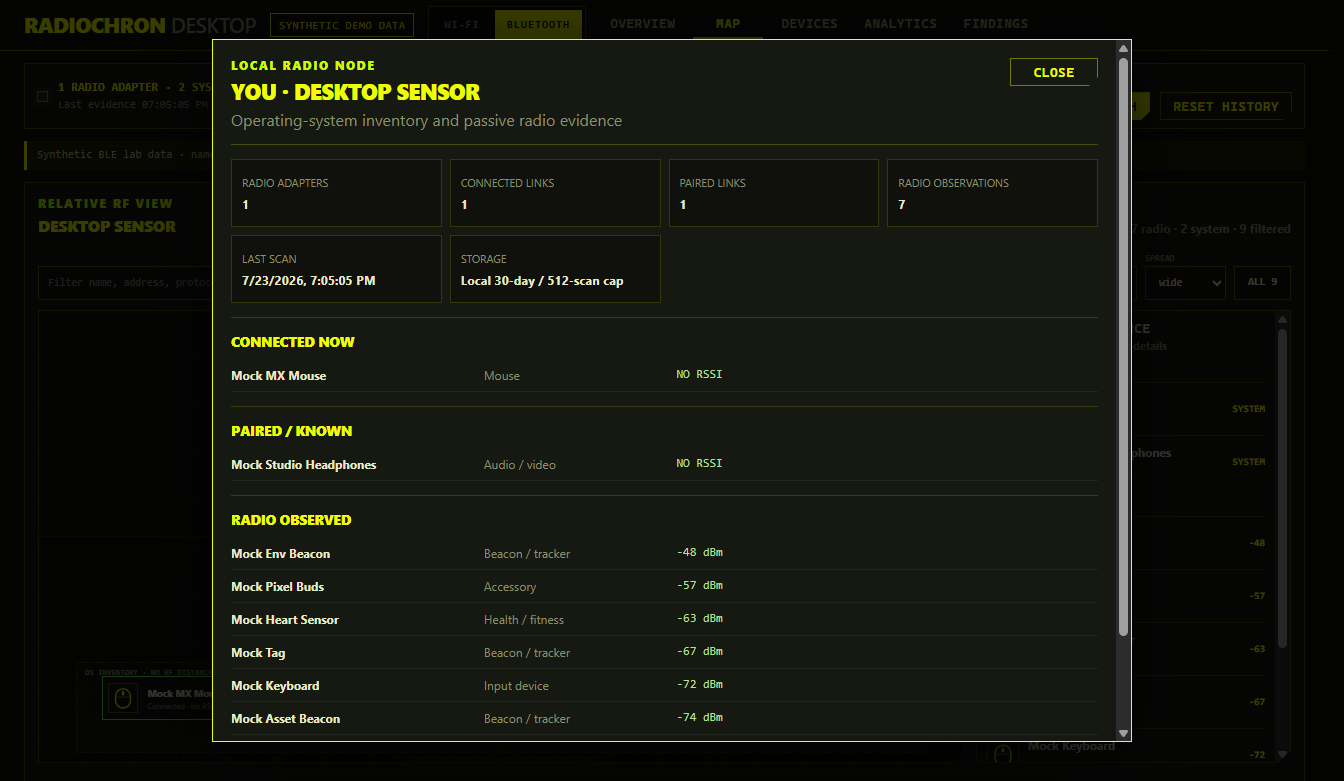
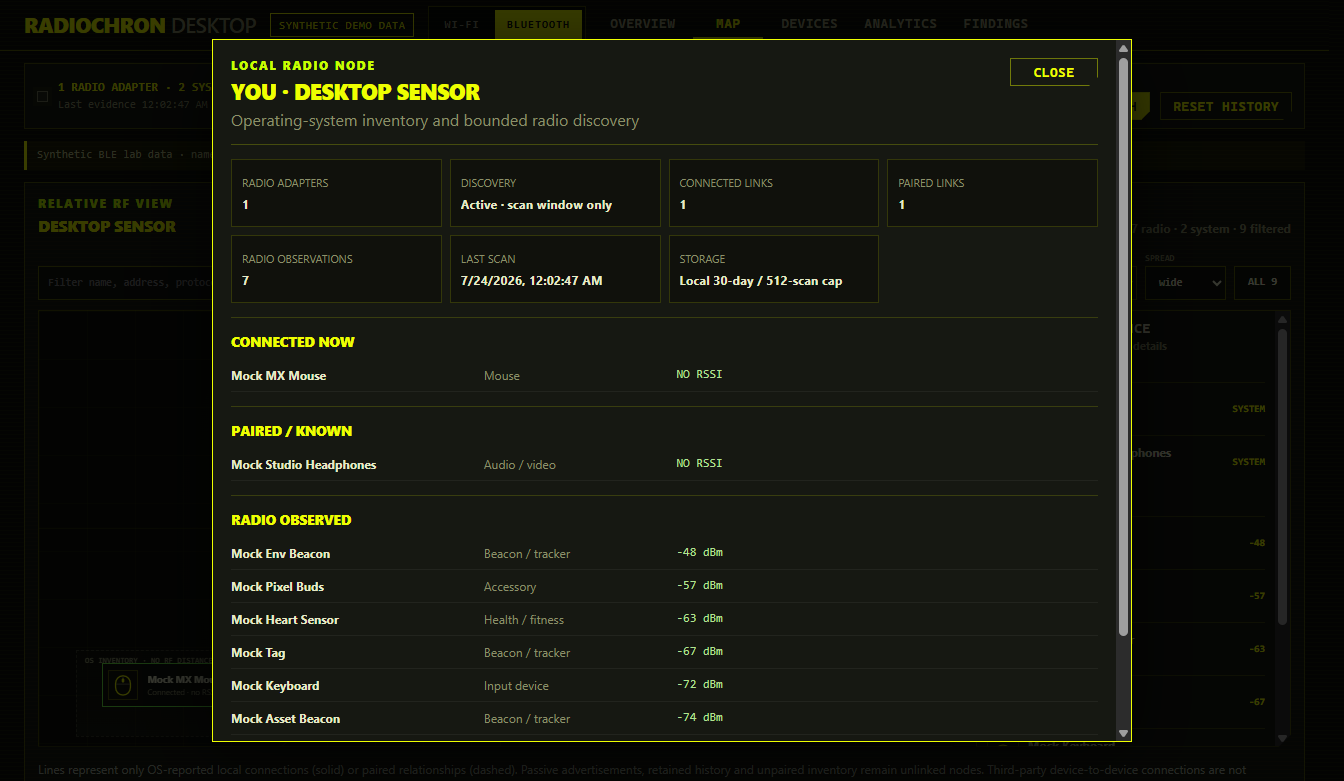
docs: prepare Desktop beta 3 site

diff --git a/public/electron.html b/public/electron.html
@@ -64,8 +64,8 @@
       <figure><img src="/screenshots/radiochron-desktop-analytics.png" alt="RadioChron Desktop Wi-Fi evidence timeline, pulse watch and signal matrices"><figcaption>Wi-Fi Analytics — timeline, transition pulse watch and AP matrices</figcaption></figure>
       <figure><img src="/screenshots/radiochron-desktop-wifi-presence.png" alt="RadioChron Desktop Wi-Fi sampled presence patterns"><figcaption>Wi-Fi presence — filterable 1/7/30-day stability and recurrence evidence</figcaption></figure>
       <figure><img src="/screenshots/radiochron-desktop-network.png" alt="RadioChron Desktop network view with documentation-only addresses"><figcaption>Network — controlled local diagnostics and scan identity</figcaption></figure>
-      <figure><img src="/screenshots/radiochron-desktop-bluetooth-map.png" alt="RadioChron Desktop Bluetooth RF map with synthetic devices"><figcaption>Bluetooth RF map — shared pan, zoom, fullscreen, filters and typed links</figcaption></figure>
-      <figure><img src="/screenshots/radiochron-desktop-bluetooth-sensor-detail.png" alt="RadioChron Desktop local Bluetooth node with connected, paired and observed relationships"><figcaption>Local node — connected, paired and observed relationships stay distinct</figcaption></figure>
+      <figure><img src="/screenshots/radiochron-desktop-bluetooth-map.png" alt="RadioChron Desktop Bluetooth RF map with synthetic devices"><figcaption>Bluetooth RF map — shared pan, zoom, fullscreen, filters and confirmed local links</figcaption></figure>
+      <figure><img src="/screenshots/radiochron-desktop-bluetooth-sensor-detail.png" alt="RadioChron Desktop local Bluetooth node with connected and paired relationships"><figcaption>Local node — connected and paired links stay distinct from unlinked radio observations</figcaption></figure>
       <figure><img src="/screenshots/radiochron-desktop-bluetooth-devices.png" alt="RadioChron Desktop Bluetooth device inventory with a connected mock mouse"><figcaption>Bluetooth devices — radio evidence plus paired and connected OS inventory</figcaption></figure>
       <figure><img src="/screenshots/radiochron-desktop-bluetooth-analytics.png" alt="RadioChron Desktop Bluetooth evidence timeline and recurrence matrix"><figcaption>Bluetooth Analytics — RSSI gaps, recurrence, system inventory and detector pulses</figcaption></figure>
       <figure><img src="/screenshots/radiochron-desktop-bluetooth-presence.png" alt="RadioChron Desktop Bluetooth sampled presence patterns"><figcaption>Presence patterns — new, stable, weekday, recurring and dormant evidence over 1/7/30 days</figcaption></figure>
@@ -82,9 +82,9 @@
       <div class="card cut"><h3>Baseline runs</h3><div class="m">Capture a timed baseline of the connection and environment, retain it locally and compare runs.</div></div>
       <div class="card cut"><h3>Evidence timeline</h3><div class="m">Reconnect and environment observations become a support-ready chronology, not just a snapshot.</div></div>
       <div class="card cut"><h3>AP inventory</h3><div class="m">SSID/BSSID, dBm, band, channel, advertised security, BSS information elements and first/last seen history.</div></div>
-      <div class="card cut"><h3>Shared RF map engine</h3><div class="m">Wi-Fi and Bluetooth reuse one pannable, zoomable, fullscreen viewport with deterministic collision correction, search and retained-history filters. The clickable “You” node exposes connected, paired, observed and retained relationships without turning RSSI into distance.</div></div>
+      <div class="card cut"><h3>Shared RF map engine</h3><div class="m">Wi-Fi and Bluetooth reuse one pannable, zoomable, fullscreen viewport with deterministic collision correction, search and retained-history filters. The clickable “You” node draws only OS-reported connected and paired links; advertisements and retained evidence remain unlinked nodes.</div></div>
       <div class="card cut"><h3>Channel pressure</h3><div class="m">Explain crowded channels using live APs, signal mix, overlap and advertised BSS load.</div></div>
-      <div class="card cut"><h3>Bluetooth device inventory</h3><div class="m">Combine advertisements with paired/connected OS inventory by exact address, preserving real names and device categories without inventing RSSI. Company IDs, GATT services and GAP appearances resolve from a bundled versioned database; <a href="/data/bluetooth-assigned-numbers.json">download the snapshot</a> or read its <a href="/data/NOTICE.txt">license and provenance</a>.</div></div>
+      <div class="card cut"><h3>Bluetooth device inventory</h3><div class="m">Combine advertisements with paired/connected OS inventory by exact address, preserving real names and device categories without inventing RSSI. Windows active discovery runs only for the selected 2/4/8-second window; macOS and Linux use OS-managed discovery. Company IDs, GATT services and GAP appearances resolve from a bundled versioned database; <a href="/data/bluetooth-assigned-numbers.json">download the snapshot</a> or read its <a href="/data/NOTICE.txt">license and provenance</a>.</div></div>
       <div class="card cut"><h3>Evidence Analytics</h3><div class="m">Explore exact retained scans through selectable timelines, transition pulse watches, signal matrices and filterable 1/7/30-day presence patterns. Missing observations remain gaps.</div></div>
       <div class="card cut"><h3>Evidence-rich PDF</h3><div class="m">Export Wi-Fi and Bluetooth history with real scan charts, changes, distributions, presence patterns and explicit interpretation limits. Location/LAN reports include richer RF, vendor, security and review evidence.</div></div>
       <div class="card cut"><h3>BLE identity history</h3><div class="m">Track protocol and address evidence, recurrence and signal range; flag persistence, disappearance, clone or flood evidence with explicit limitations.</div></div>
@@ -122,16 +122,16 @@
   <div class="wrap">
     <div class="tag">//: 04 — DOWNLOAD BETA</div>
     <h2>Desktop installers</h2>
-    <p>Download the current open-source beta 2. These builds are produced from the tested repository
+    <p>Download the current open-source beta 3. These builds are produced from the tested repository
       commit and include the native <code>radiochron-js</code> adapter.</p>
     <div class="grid g3 download-grid">
-      <div class="card cut"><h3>Windows x64</h3><div class="m">Assisted NSIS installer (.exe)</div><div class="actions"><a class="button primary" href="https://github.com/sergii-ziborov/radiochron-electron/releases/download/desktop-v0.2.0-beta.2/RadioChron-Desktop-0.2.0-Windows-x64.exe">Download</a></div></div>
-      <div class="card cut"><h3>Mac — Apple Silicon</h3><div class="m">DMG for M1, M2, M3 and newer</div><div class="actions"><a class="button primary" href="https://github.com/sergii-ziborov/radiochron-electron/releases/download/desktop-v0.2.0-beta.2/RadioChron-Desktop-0.2.0-macOS-Apple-Silicon.dmg">Download</a></div></div>
-      <div class="card cut"><h3>Mac — Intel</h3><div class="m">DMG for Intel-based Macs</div><div class="actions"><a class="button primary" href="https://github.com/sergii-ziborov/radiochron-electron/releases/download/desktop-v0.2.0-beta.2/RadioChron-Desktop-0.2.0-macOS-Intel.dmg">Download</a></div></div>
+      <div class="card cut"><h3>Windows x64</h3><div class="m">Assisted NSIS installer (.exe)</div><div class="actions"><a class="button primary" href="https://github.com/sergii-ziborov/radiochron-electron/releases/download/desktop-v0.2.0-beta.3/RadioChron-Desktop-0.2.0-Windows-x64.exe">Download</a></div></div>
+      <div class="card cut"><h3>Mac — Apple Silicon</h3><div class="m">DMG for M1, M2, M3 and newer</div><div class="actions"><a class="button primary" href="https://github.com/sergii-ziborov/radiochron-electron/releases/download/desktop-v0.2.0-beta.3/RadioChron-Desktop-0.2.0-macOS-Apple-Silicon.dmg">Download</a></div></div>
+      <div class="card cut"><h3>Mac — Intel</h3><div class="m">DMG for Intel-based Macs</div><div class="actions"><a class="button primary" href="https://github.com/sergii-ziborov/radiochron-electron/releases/download/desktop-v0.2.0-beta.3/RadioChron-Desktop-0.2.0-macOS-Intel.dmg">Download</a></div></div>
     </div>
     <p class="beta-warning"><strong>Unsigned beta:</strong> Windows SmartScreen and macOS Gatekeeper
       may warn. The macOS builds are not Developer ID signed or notarized yet. Verify the SHA-256
-      file from the <a href="https://github.com/sergii-ziborov/radiochron-electron/releases/tag/desktop-v0.2.0-beta.2">release page</a> before testing.</p>
+      file from the <a href="https://github.com/sergii-ziborov/radiochron-electron/releases/tag/desktop-v0.2.0-beta.3">release page</a> before testing.</p>
     <h3 style="margin-top:34px">Build it yourself</h3>
     <div class="term cut">
       <div class="bar"><i></i><i></i><i></i></div>

diff --git a/public/index.html b/public/index.html
@@ -243,7 +243,8 @@ radiochron-esp-idf = { version = "0.2", features = ["nimble"] }
       <div class="card cut"><h3>Desktop app</h3>
         <div class="m"><a href="/electron">RadioChron Desktop</a> —
         Windows/macOS baselines, shared Wi-Fi/Bluetooth RF map, 1/7/30-day presence patterns,
-        typed device relationships, rich PDF evidence, channel pressure and network inventory.
+        OS-confirmed connected/paired links, unlinked radio observations, rich PDF evidence,
+        channel pressure and network inventory.
         It imports <code>radiochron-js</code>; builds cover Windows x64, Intel Mac and Apple Silicon.
         <a href="/electron#download">Downloads and details</a>.</div></div>
     </div>
@@ -272,7 +273,7 @@ radiochron-esp-idf = { version = "0.2", features = ["nimble"] }
       <figure><img src="/screenshots/radiochron-desktop-wifi-presence.png" alt="RadioChron Desktop Wi-Fi 1, 7 and 30-day sampled presence patterns" loading="lazy"><figcaption>Wi-Fi presence patterns</figcaption></figure>
       <figure><img src="/screenshots/radiochron-desktop-network.png" alt="RadioChron Desktop network controls with documentation-only addresses" loading="lazy"><figcaption>Network evidence</figcaption></figure>
       <figure><img src="/screenshots/radiochron-desktop-bluetooth-map.png" alt="RadioChron Desktop Bluetooth RF map with synthetic devices" loading="lazy"><figcaption>Bluetooth RF map</figcaption></figure>
-      <figure><img src="/screenshots/radiochron-desktop-bluetooth-sensor-detail.png" alt="RadioChron Desktop local Bluetooth node with typed relationships" loading="lazy"><figcaption>Bluetooth relationships</figcaption></figure>
+      <figure><img src="/screenshots/radiochron-desktop-bluetooth-sensor-detail.png" alt="RadioChron Desktop local Bluetooth node with connected and paired links" loading="lazy"><figcaption>Confirmed Bluetooth links</figcaption></figure>
       <figure><img src="/screenshots/radiochron-desktop-bluetooth-devices.png" alt="RadioChron Desktop Bluetooth inventory with a connected mock mouse" loading="lazy"><figcaption>Bluetooth devices</figcaption></figure>
       <figure><img src="/screenshots/radiochron-desktop-bluetooth-analytics.png" alt="RadioChron Desktop Bluetooth evidence timeline and recurrence matrix" loading="lazy"><figcaption>Bluetooth Analytics</figcaption></figure>
       <figure><img src="/screenshots/radiochron-desktop-bluetooth-presence.png" alt="RadioChron Desktop Bluetooth 1, 7 and 30-day presence patterns" loading="lazy"><figcaption>Bluetooth presence patterns</figcaption></figure>

diff --git a/README.md b/README.md
@@ -5,9 +5,9 @@ Source for [radiochron.com](https://radiochron.com), a static website deployed w
 The deployable files live in `public/`. The site uses no client-side JavaScript, analytics, cookies, or telemetry.
 
 The Desktop page includes Electron-captured synthetic screenshots for the
-shared Wi-Fi/Bluetooth map, typed Bluetooth relationships, and filterable
-1/7/30-day presence analytics. No real SSID, address, or device identity is
-used in those images.
+shared Wi-Fi/Bluetooth map, OS-confirmed connected/paired Bluetooth links,
+unlinked radio observations, and filterable 1/7/30-day presence analytics.
+No real SSID, address, or device identity is used in those images.
 
 `public/data/bluetooth-assigned-numbers.json` is the downloadable, versioned
 company/service/appearance snapshot bundled with RadioChron Desktop. Its source
